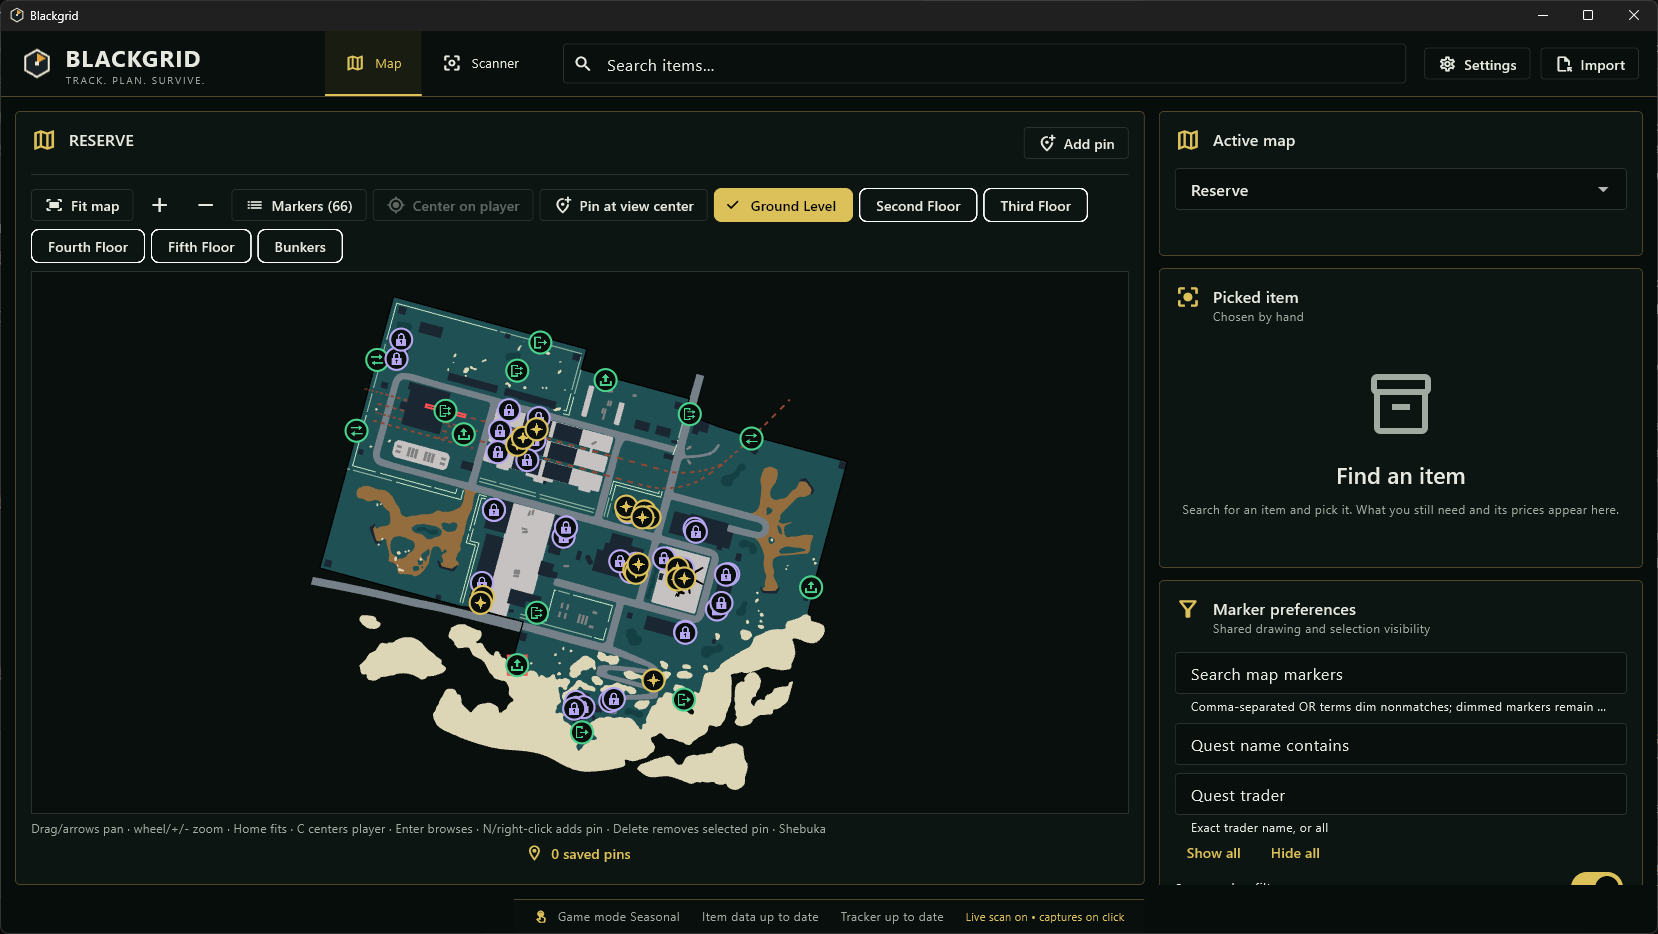
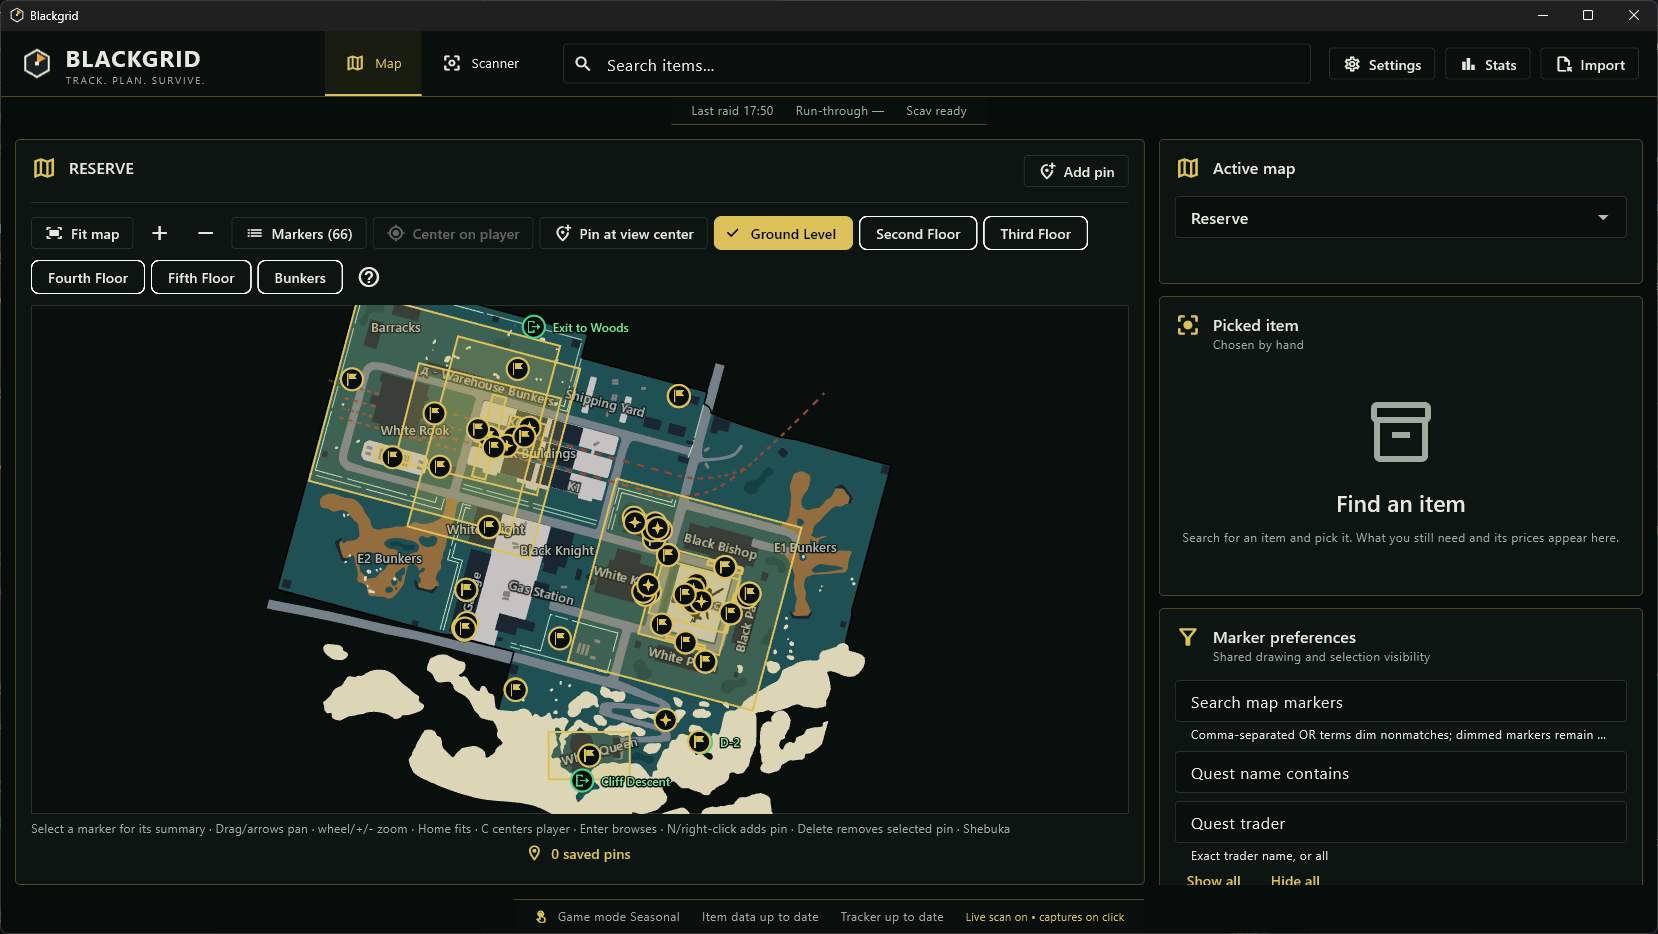
docs(readme): refresh screenshots with place labels
Recapture the map and scanner screenshots from the 0.8.0 build so the
README shows the new place labels on Reserve.

diff --git a/README.md b/README.md
@@ -6,7 +6,7 @@
 
 | Map | Scanner |
 |---|---|
-| ![Map area: Reserve with extracts, transits, locks and loot markers, and floor buttons](docs/screenshots/map.png) | ![Scanner area: advice for a Graphics card, with prices, the quests that need it, and recent items](docs/screenshots/scanner.png) |
+| ![Map area: Reserve with place labels, extracts, transits, locks and loot markers, and floor buttons](docs/screenshots/map.png) | ![Scanner area: advice for a Graphics card, with prices, the quests that need it, and recent items](docs/screenshots/scanner.png) |
 
 ## 🎯 What Blackgrid does for you
 
